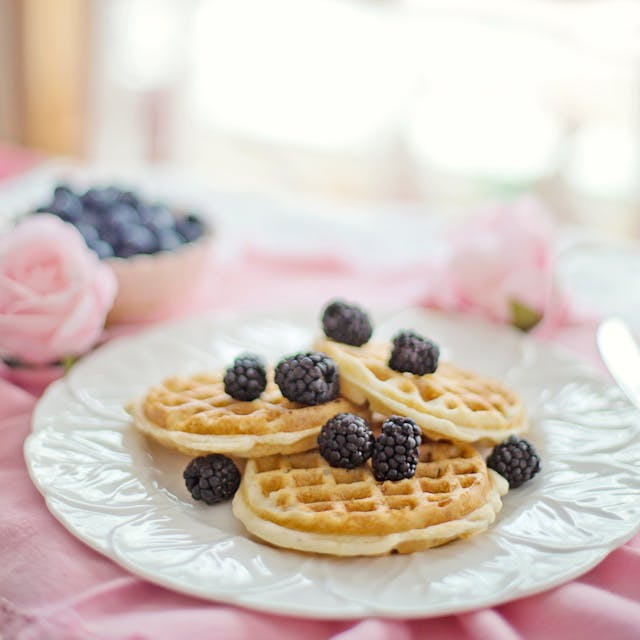
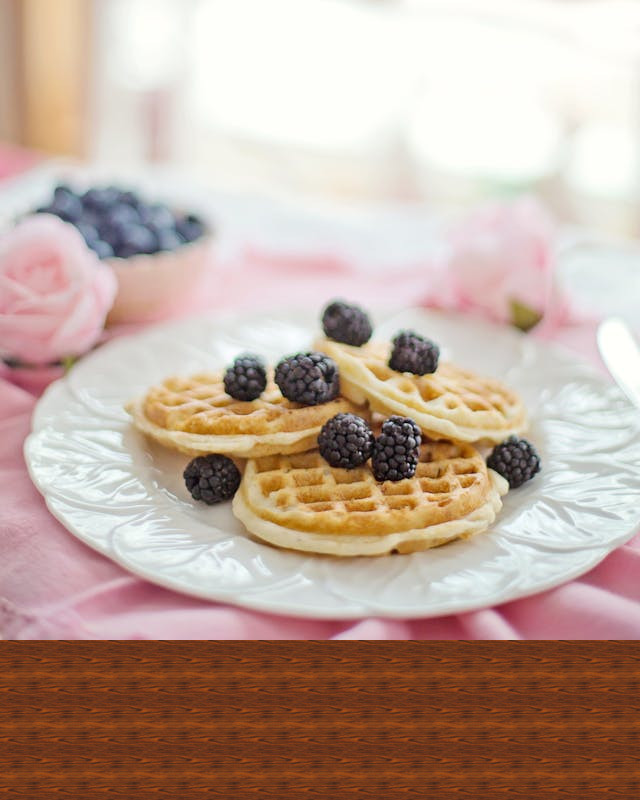
Refactor code structure for improved readability and maintainability

diff --git a/markdown_editor3.py b/markdown_editor3.py
@@ -291,8 +291,8 @@ class Markdown_Editor(QMainWindow):
         maak_menu_punt(self, "ontsleutel_actie", menu_teksten["Ontsleutel Bestand"], "", self.ontsleutelen)
 
         # verder uitwerken van menu's en acties kan hier worden toegevoegd indien nodig
-        for key, value in self.keuze_teksten.items():
-            print(f"Keuze tekst: {key} -> {value}")
+        #for key, value in self.keuze_teksten.items():
+            #print(f"Keuze tekst: {key} -> {value}")
         
         # Maak menubalk en menu's        
         
@@ -1444,7 +1444,8 @@ class Markdown_Editor(QMainWindow):
                 parts.append(hoofstuktitel)
                 hoofdstuk_inhoud = ""
             else:
-                hoofdstuk_inhoud += regel + "\n"
+                #hoofdstuk_inhoud += regel + "\n"
+                hoofdstuk_inhoud += regel
                 if hoofdstuk_inhoud.strip():
                     hoofdstuk_inhoud += "\n"
         if hoofdstuk_inhoud.strip():
